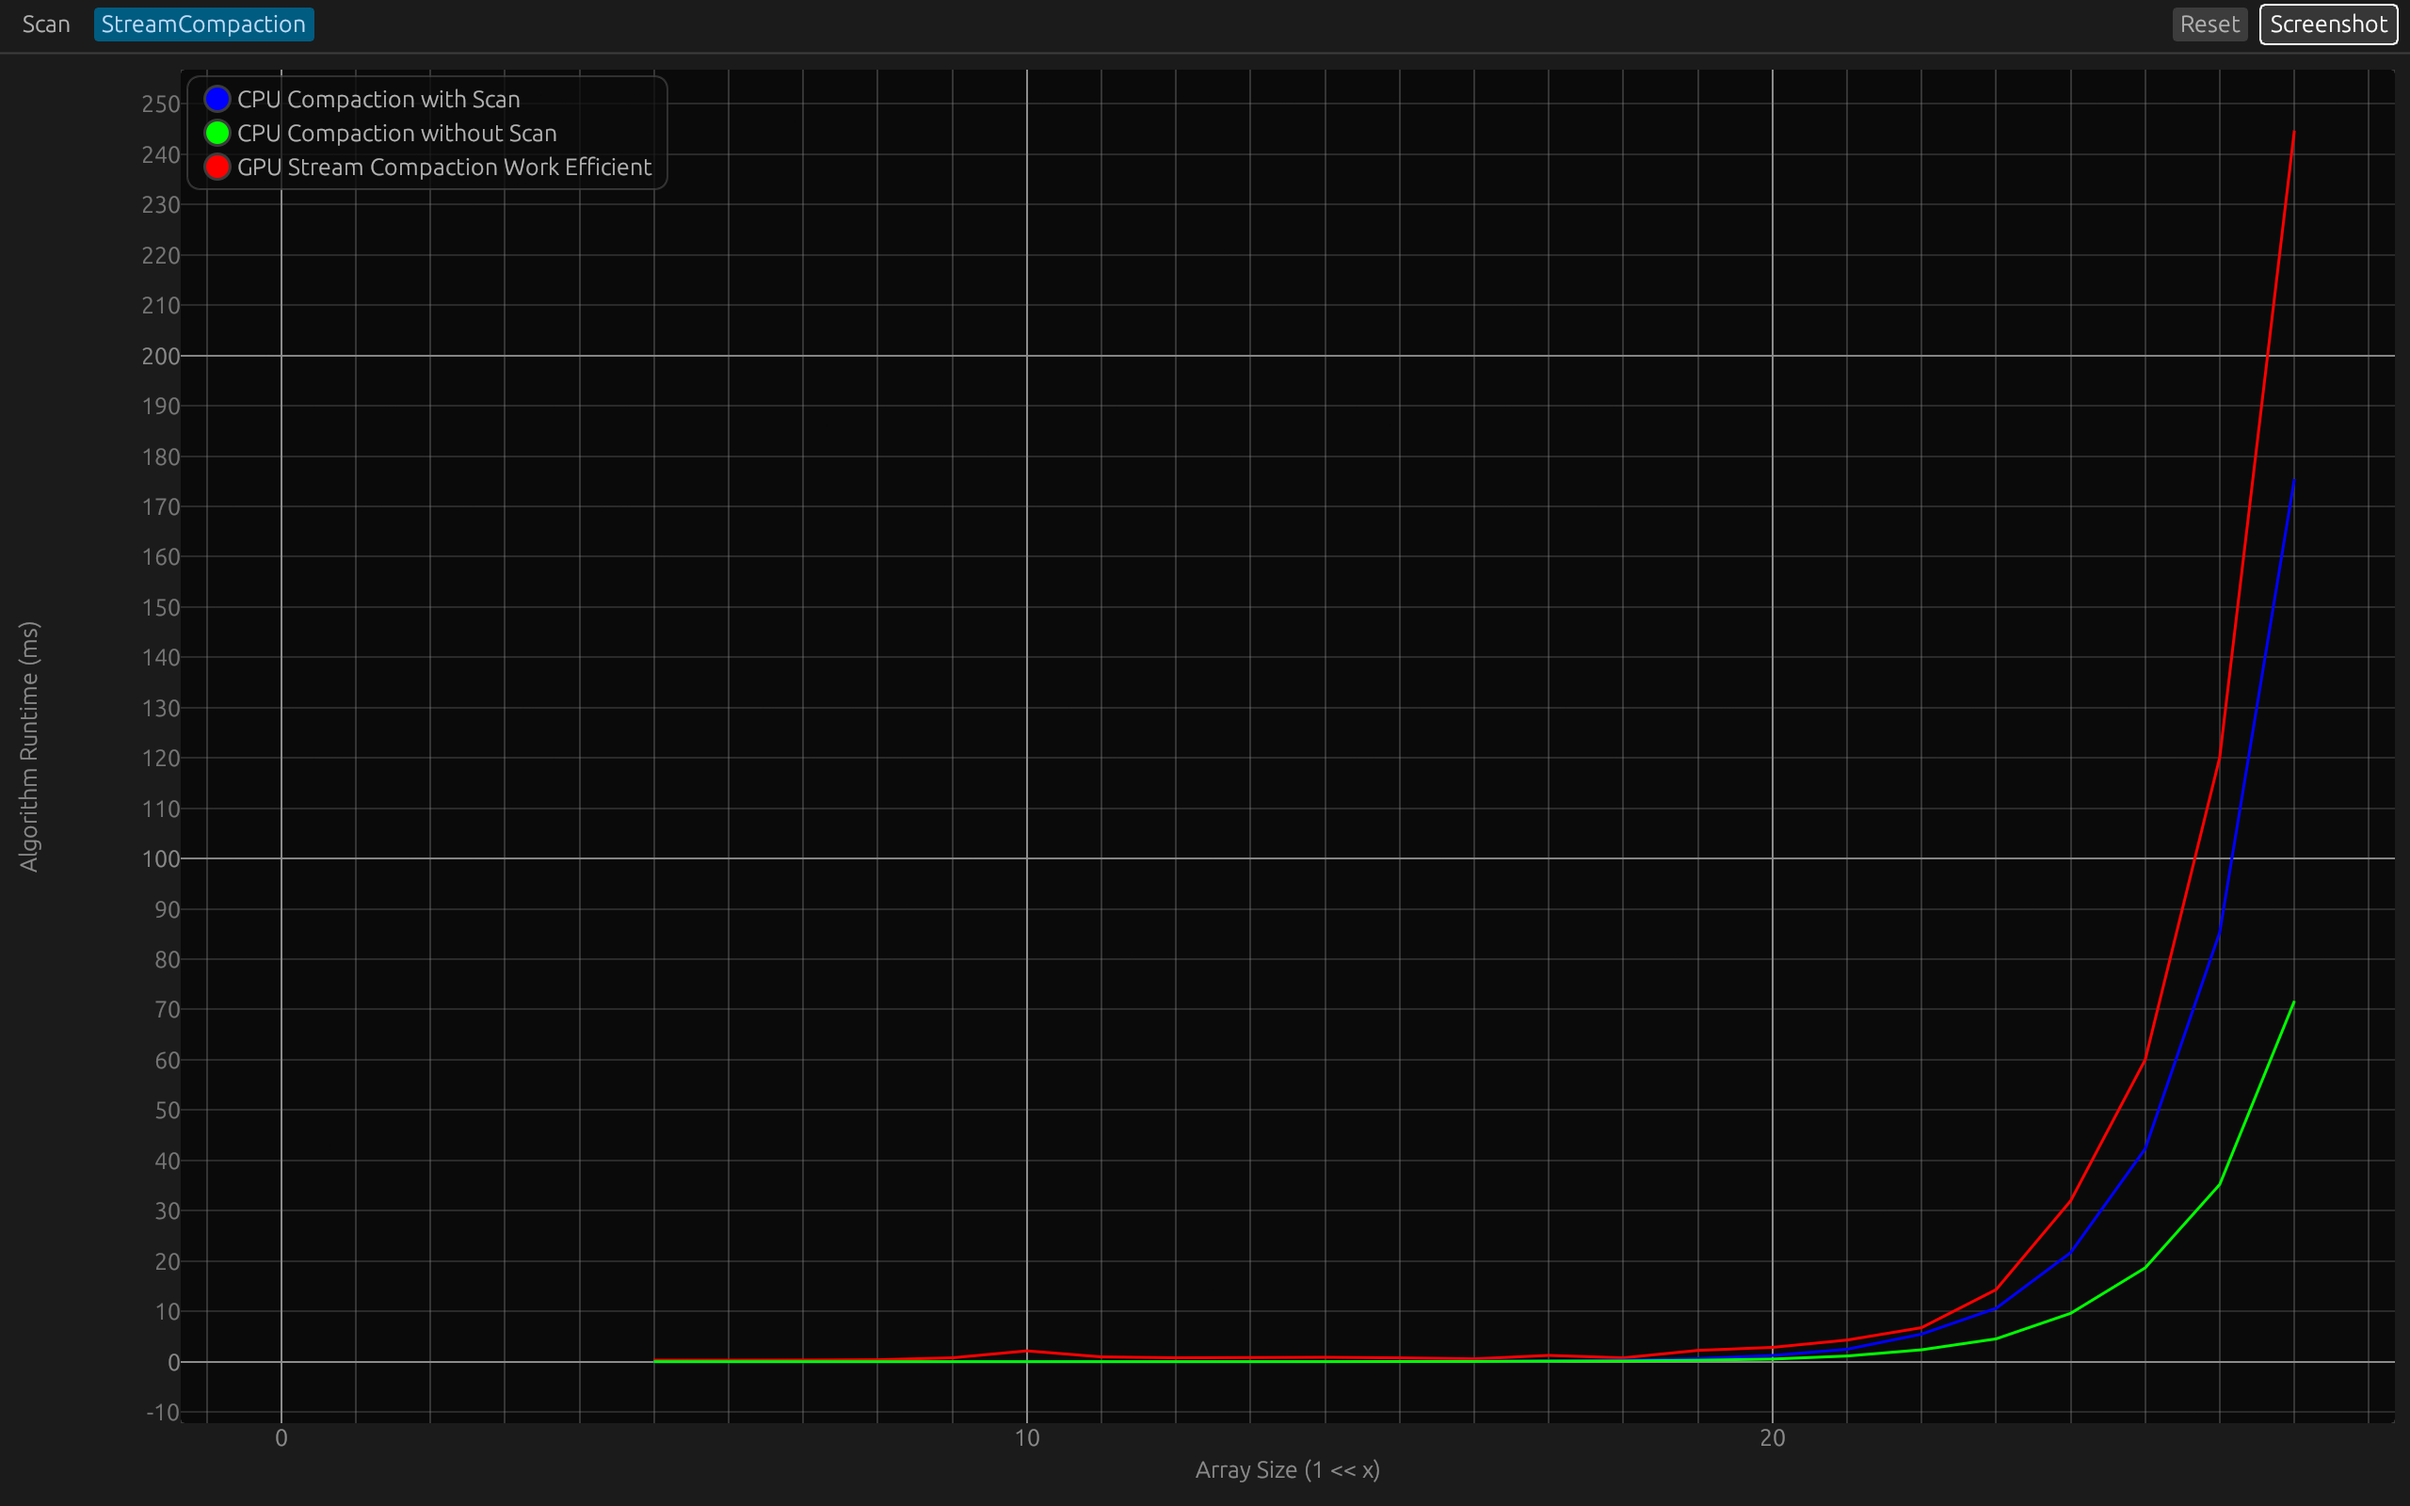
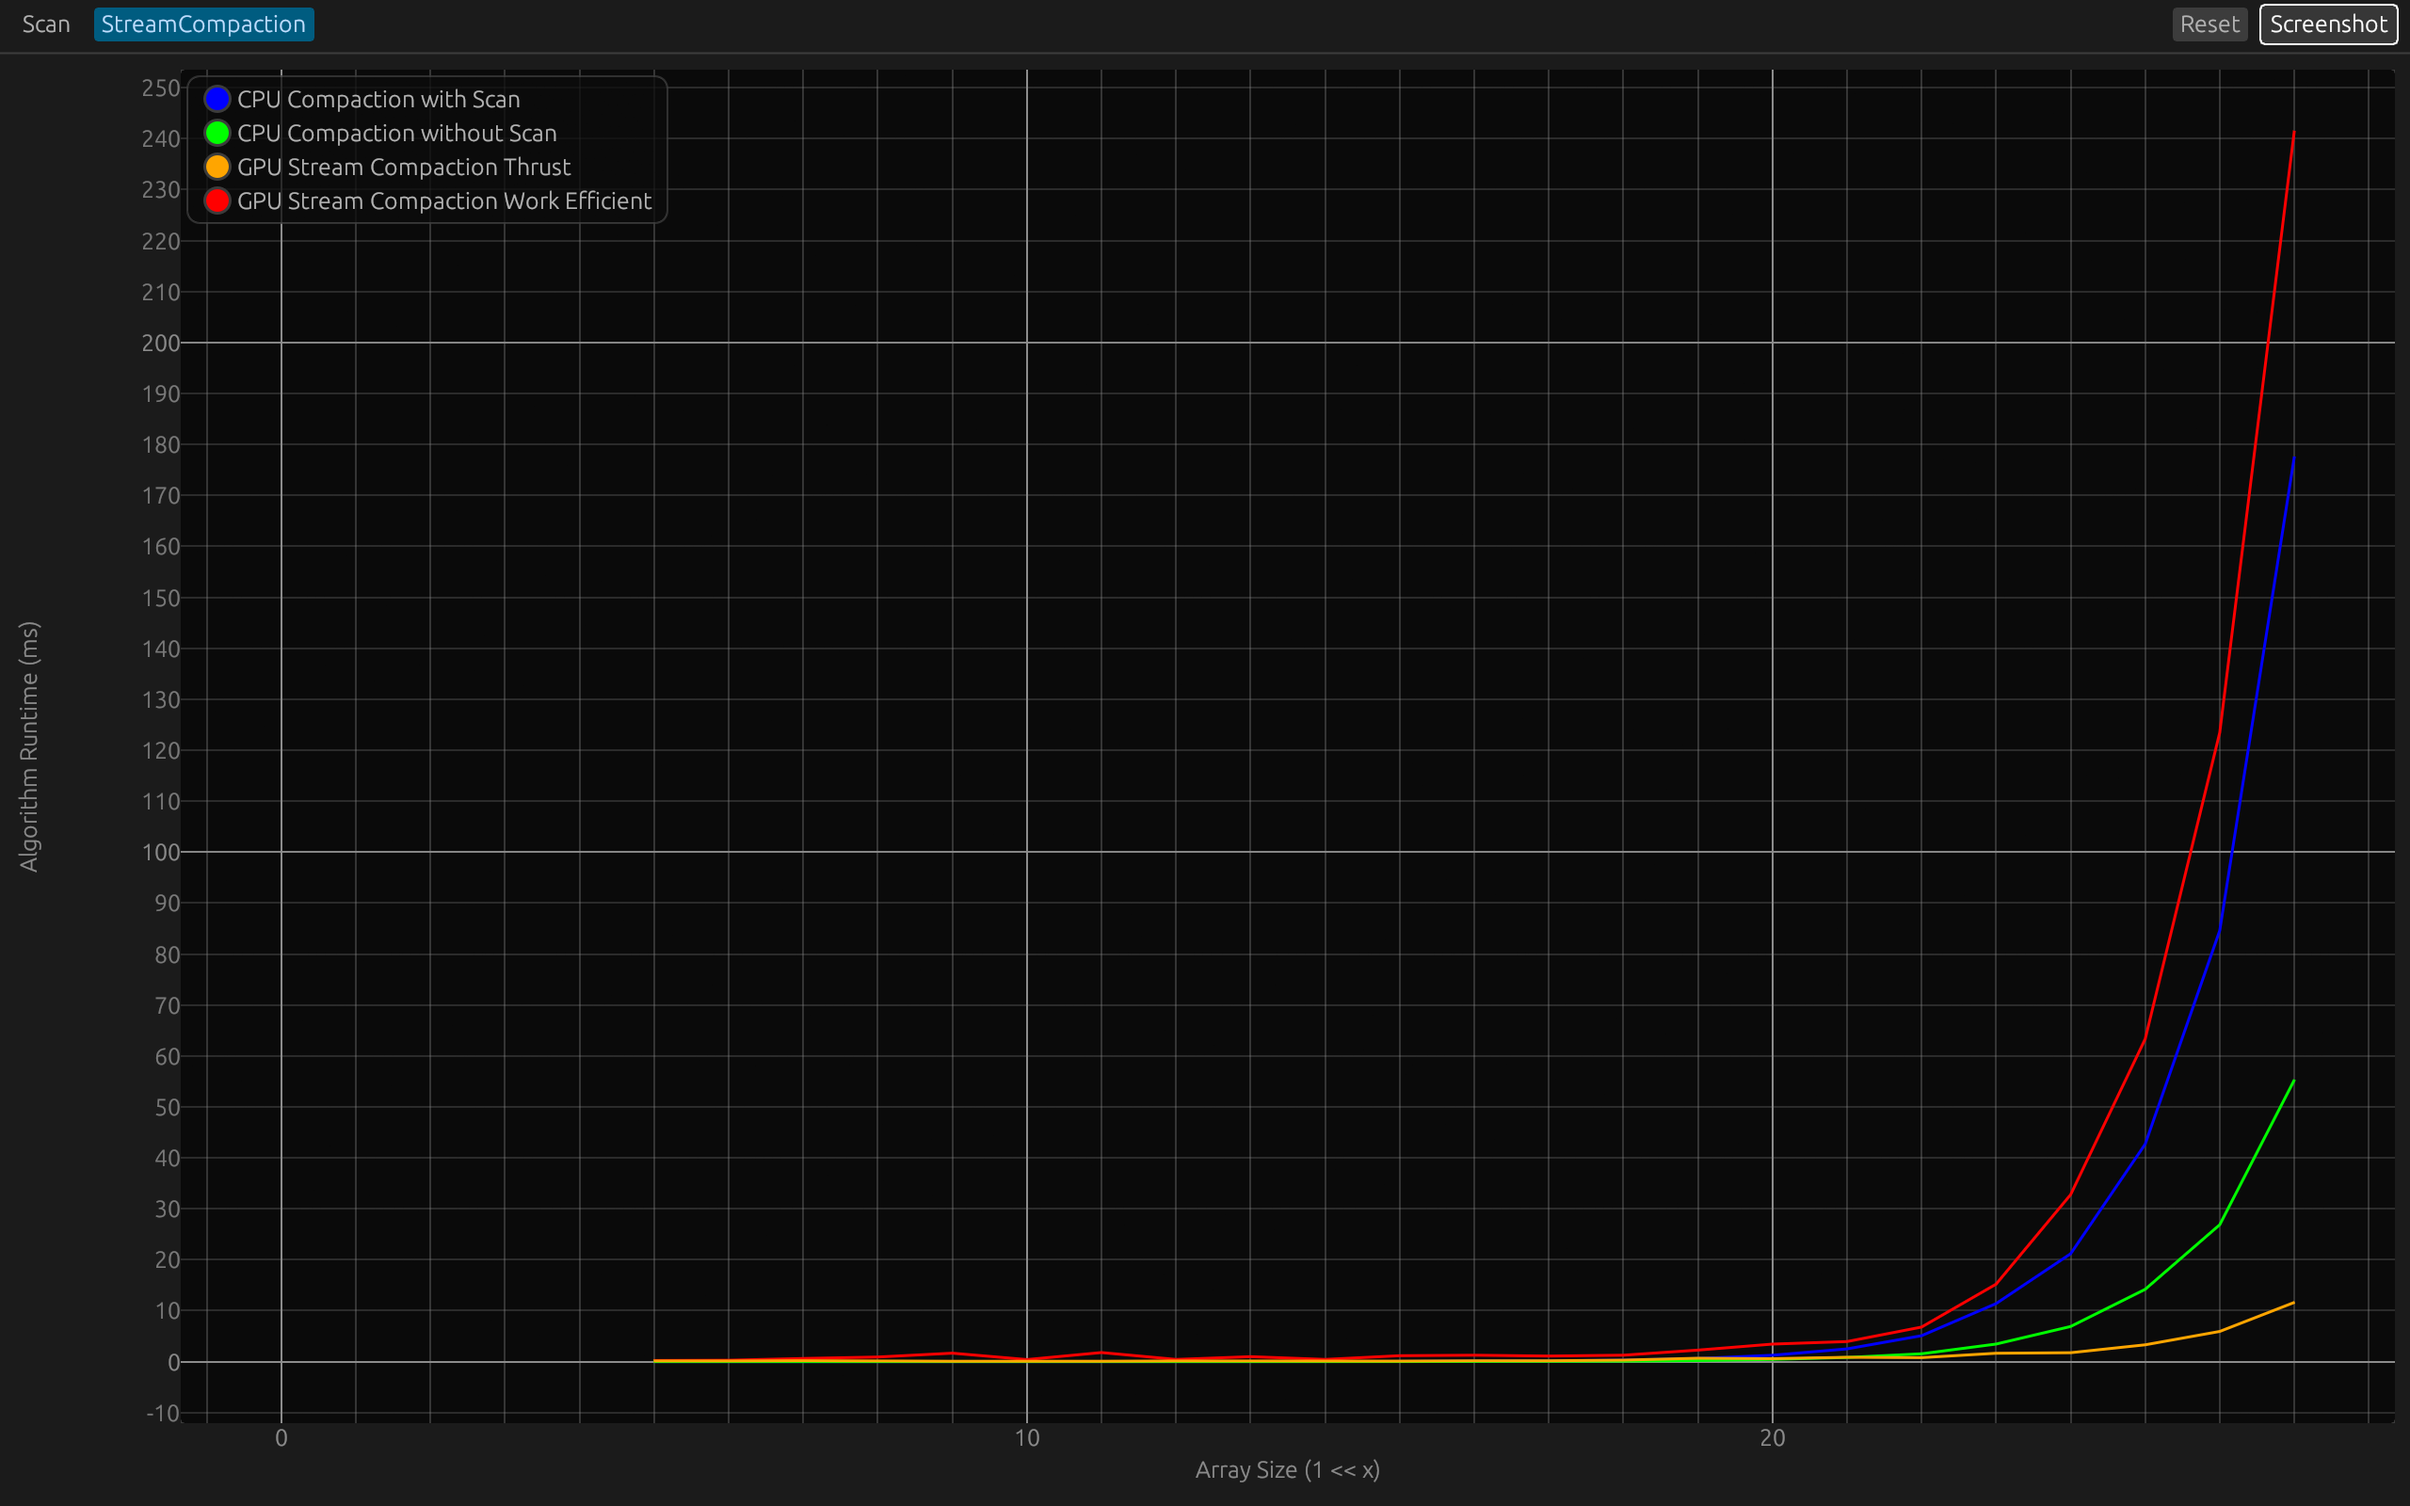
added thrust stream compacction

diff --git a/src/main.cpp b/src/main.cpp
@@ -16,7 +16,7 @@
 #include <cassert>
 
 int SIZE = 1 << 10; // feel free to change the size of array
-bool tests[5] = {true, true, true, true, true};
+bool tests[6] = {true, true, true, true, true, true};
 int blockSize = 128;
 
 bool testing = false;
@@ -32,12 +32,13 @@ void test_gpu_scan_naive() {
     zeroArray(SIZE, d_write.data());
 
     StreamCompaction::CPU::scan(SIZE, h_write.data(), read.data());
-    printElapsedTime("CPU Scan: ", StreamCompaction::CPU::timer().getCpuElapsedTimeForPreviousOperation(), "(std::chrono Measured)");
+    // printElapsedTime("CPU Scan: ", StreamCompaction::CPU::timer().getCpuElapsedTimeForPreviousOperation(), "(std::chrono Measured)");
 
     StreamCompaction::Naive::scan(SIZE, d_write.data(), read.data());
-    printElapsedTime("GPU Scan Naive: ", StreamCompaction::Naive::timer().getGpuElapsedTimeForPreviousOperation(), "(std::chrono Measured)");
+    // printElapsedTime("GPU Scan Naive: ", StreamCompaction::Naive::timer().getGpuElapsedTimeForPreviousOperation(), "(std::chrono Measured)");
 
     assert(h_write == d_write);
+    printf("passed\n");
 }
 
 void test_gpu_scan_work_efficient() {
@@ -51,12 +52,13 @@ void test_gpu_scan_work_efficient() {
     zeroArray(SIZE, d_write.data());
 
     StreamCompaction::CPU::scan(SIZE, h_write.data(), read.data());
-    printElapsedTime("CPU Scan: ", StreamCompaction::CPU::timer().getCpuElapsedTimeForPreviousOperation(), "(std::chrono Measured)");
+    // printElapsedTime("CPU Scan: ", StreamCompaction::CPU::timer().getCpuElapsedTimeForPreviousOperation(), "(std::chrono Measured)");
 
     StreamCompaction::Efficient::scan(SIZE, d_write.data(), read.data());
-    printElapsedTime("GPU Scan Work Efficient: ", StreamCompaction::Efficient::timer().getGpuElapsedTimeForPreviousOperation(), "(std::chrono Measured)");
+    // printElapsedTime("GPU Scan Work Efficient: ", StreamCompaction::Efficient::timer().getGpuElapsedTimeForPreviousOperation(), "(std::chrono Measured)");
 
     assert(h_write == d_write);
+    printf("passed\n");
 }
 
 
@@ -71,12 +73,13 @@ void test_gpu_stream_compaction_work_efficient() {
     zeroArray(SIZE, d_write.data());
 
     StreamCompaction::CPU::compactWithScan(SIZE, h_write.data(), read.data());
-    printElapsedTime("CPU Compaction: ", StreamCompaction::CPU::timer().getCpuElapsedTimeForPreviousOperation(), "(std::chrono Measured)");
+    // printElapsedTime("CPU Compaction: ", StreamCompaction::CPU::timer().getCpuElapsedTimeForPreviousOperation(), "(std::chrono Measured)");
 
     StreamCompaction::Efficient::compact(SIZE, d_write.data(), read.data());
-    printElapsedTime("GPU Compaction Work Efficient: ", StreamCompaction::Efficient::timer().getGpuElapsedTimeForPreviousOperation(), "(std::chrono Measured)");
+    // printElapsedTime("GPU Compaction Work Efficient: ", StreamCompaction::Efficient::timer().getGpuElapsedTimeForPreviousOperation(), "(std::chrono Measured)");
 
     assert(h_write == d_write);
+    printf("passed\n");
 }
 
 
@@ -91,12 +94,13 @@ void test_gpu_scan_thrust() {
     zeroArray(SIZE, d_write.data());
 
     StreamCompaction::CPU::scan(SIZE, h_write.data(), read.data());
-    printElapsedTime("CPU Scan: ", StreamCompaction::CPU::timer().getCpuElapsedTimeForPreviousOperation(), "(std::chrono Measured)");
+    // printElapsedTime("CPU Scan: ", StreamCompaction::CPU::timer().getCpuElapsedTimeForPreviousOperation(), "(std::chrono Measured)");
 
     StreamCompaction::Thrust::scan(SIZE, d_write.data(), read.data());
-    printElapsedTime("GPU Thrust Scan: ", StreamCompaction::Thrust::timer().getGpuElapsedTimeForPreviousOperation(), "(std::chrono Measured)");
+    // printElapsedTime("GPU Thrust Scan: ", StreamCompaction::Thrust::timer().getGpuElapsedTimeForPreviousOperation(), "(std::chrono Measured)");
 
     assert(h_write == d_write);
+    printf("passed\n");
 }
 
 void test_cpu_stream_compaction() {
@@ -116,8 +120,29 @@ void test_cpu_stream_compaction() {
     // printElapsedTime("CPU Compaction without Scan: ", StreamCompaction::CPU::timer().getCpuElapsedTimeForPreviousOperation(), "(std::chrono Measured)");
 
     assert(a_write == b_write);
+    printf("passed\n");
 }
 
+
+void test_gpu_stream_compaction_thrust() {
+    std::vector<int> read(SIZE, 0);
+    std::vector<int> a_write(SIZE, 0);
+    std::vector<int> b_write(SIZE, 0);
+
+    genArray(SIZE - 1, read.data(), 50);
+    read[SIZE - 1] = 0;
+    zeroArray(SIZE, a_write.data());
+    zeroArray(SIZE, b_write.data());
+
+    StreamCompaction::CPU::compactWithScan(SIZE, a_write.data(), read.data());
+    // printElapsedTime("CPU Compaction with Scan: ", StreamCompaction::CPU::timer().getCpuElapsedTimeForPreviousOperation(), "(std::chrono Measured)");
+
+    StreamCompaction::Thrust::compact(SIZE, b_write.data(), read.data());
+    // printElapsedTime("CPU Compaction without Scan: ", StreamCompaction::CPU::timer().getCpuElapsedTimeForPreviousOperation(), "(std::chrono Measured)");
+
+    assert(a_write == b_write);
+    printf("passed\n");
+}
 
 
 void process_command_line_args(int argc, char* argv[]) {
@@ -138,6 +163,7 @@ void process_command_line_args(int argc, char* argv[]) {
             tests[2] = false;
             tests[3] = false;
             tests[4] = false;
+            tests[5] = false;
             if ( value == "CPU_STREAM_COMPACT" ) {
                 tests[0] = true;
             } 
@@ -153,15 +179,19 @@ void process_command_line_args(int argc, char* argv[]) {
             else if ( value == "GPU_SCAN_THRUST" ) {
                 tests[4] = true;
             }
+            else if ( value == "GPU_STREAM_COMPACT_THRUST" ) {
+                tests[5] = true;
+            }
             else if ( value == "ALL" ) {
                 tests[0] = true;
                 tests[1] = true;
                 tests[2] = true;
                 tests[3] = true;
                 tests[4] = true;
+                tests[5] = true;
             }
             else {
-                printf("ERROR: incorrect parameter for flag -tests (CPU_STREAM_COMPACT, GPU_SCAN_NAIVE, GPU_SCAN_EFFICIENT, GPU_STREAM_COMPACT_EFFICIENT, GPU_SCAN_THRUST, ALL)\n");
+                printf("ERROR: incorrect parameter for flag -tests (CPU_STREAM_COMPACT, GPU_SCAN_NAIVE, GPU_SCAN_EFFICIENT, GPU_STREAM_COMPACT_EFFICIENT, GPU_SCAN_THRUST, GPU_STREAM_COMPACT_THRUST, ALL)\n");
                 std::cout.flush();
                 exit(1);
             }
@@ -207,6 +237,7 @@ int main(int argc, char* argv[]) {
         if (tests[2]) test_gpu_scan_work_efficient();
         if (tests[3]) test_gpu_stream_compaction_work_efficient();
         if (tests[4]) test_gpu_scan_thrust();
+        if (tests[5]) test_gpu_stream_compaction_thrust();
     }
     else { // profiling
         std::vector<int> read(SIZE, 0);
@@ -249,6 +280,11 @@ int main(int argc, char* argv[]) {
         zeroArray(SIZE, write.data());
         StreamCompaction::Thrust::scan(SIZE, write.data(), read.data());
         printElapsedTime("GPU Scan Thrust: ", StreamCompaction::Thrust::timer().getGpuElapsedTimeForPreviousOperation(), "(std::chrono Measured)");
+
+        // GPU Stream Compaction Thrust
+        zeroArray(SIZE, write.data());
+        StreamCompaction::Thrust::compact(SIZE, write.data(), read.data());
+        printElapsedTime("GPU Stream Compaction Thrust: ", StreamCompaction::Thrust::timer().getGpuElapsedTimeForPreviousOperation(), "(std::chrono Measured)");
 
     }
 }

diff --git a/profiling/src/main.rs b/profiling/src/main.rs
@@ -24,7 +24,7 @@ const RESET_ALL: bool = true;
 //     BufferCount = 7,
 // }
 
-const BUFFER_COUNT: usize = 7;
+const BUFFER_COUNT: usize = 8;
 
 const BUFFER_TITLES : [&str; BUFFER_COUNT] = [
     "GPU Scan Naive",
@@ -33,7 +33,8 @@ const BUFFER_TITLES : [&str; BUFFER_COUNT] = [
     "GPU Scan Thrust",
     "CPU Compaction with Scan",
     "CPU Compaction without Scan",
-    "CPU Scan"
+    "CPU Scan",
+    "GPU Stream Compaction Thrust"
 ];
 
 

diff --git a/stream_compaction/thrust.h b/stream_compaction/thrust.h
@@ -7,5 +7,6 @@ namespace StreamCompaction {
         StreamCompaction::Common::PerformanceTimer& timer();
 
         void scan(int n, int *odata, const int *idata);
+        void compact(int n, int *odata, const int *idata);
     }
 }
